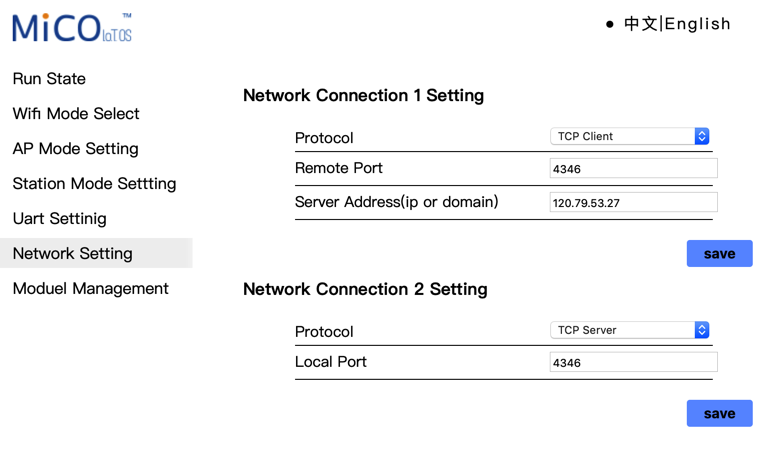
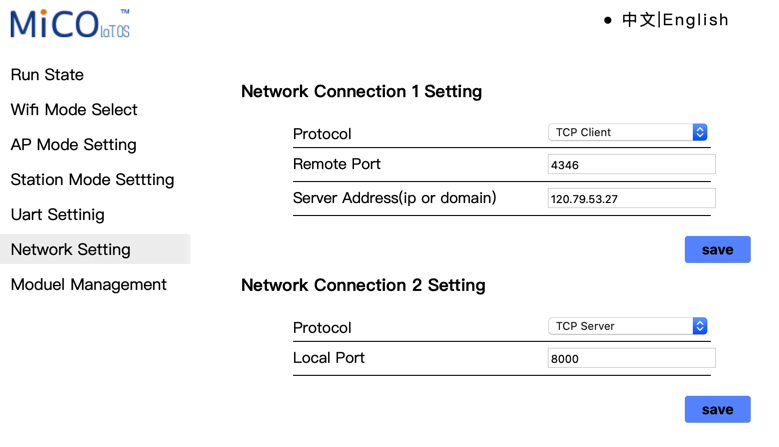
move to port 8000 on Lux inverter
I think this is the port used by the app so we won't break
the app if we stick with that.

diff --git a/doc/INVERTER_SETUP.md b/doc/INVERTER_SETUP.md
@@ -12,7 +12,7 @@ Tap on Network Setting in the menu. You should see two forms, the top one is pop
 
 ![](lux_network_setting.png)
 
-After the datalogger reboots (this takes only a couple of seconds and does not affect the main inverter operation, it will continue as normal), port 4346 on your inverter IP is accessible to our Ruby script. You should be sure that this port is only accessible via your LAN, and not exposed to the Internet, or anyone can control your inverter.
+After the datalogger reboots (this takes only a couple of seconds and does not affect the main inverter operation, it will continue as normal), port 8000 on your inverter IP is accessible to our Ruby script. You should be sure that this port is only accessible via your LAN, and not exposed to the Internet, or anyone can control your inverter.
 
 ## Enabling AC Charge
 
